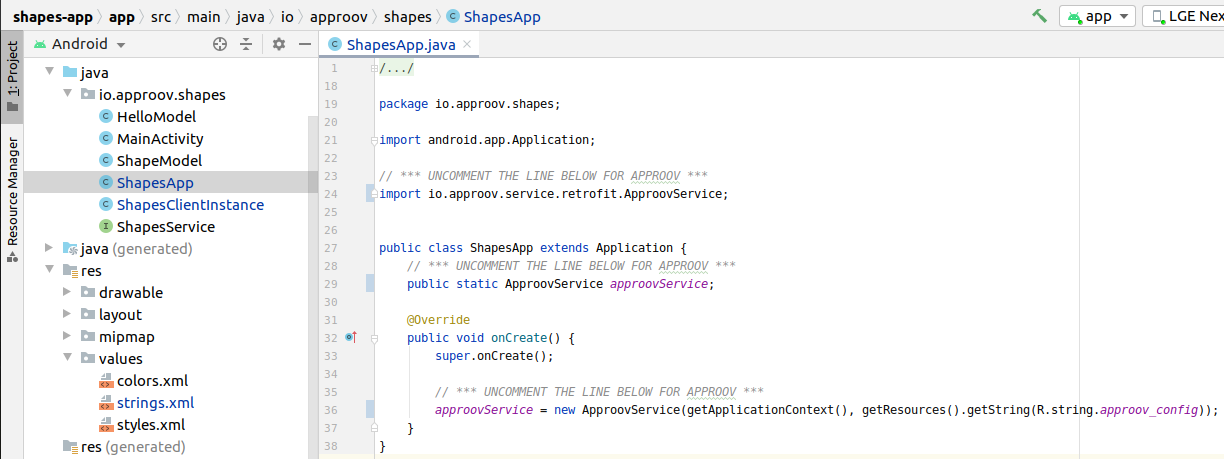
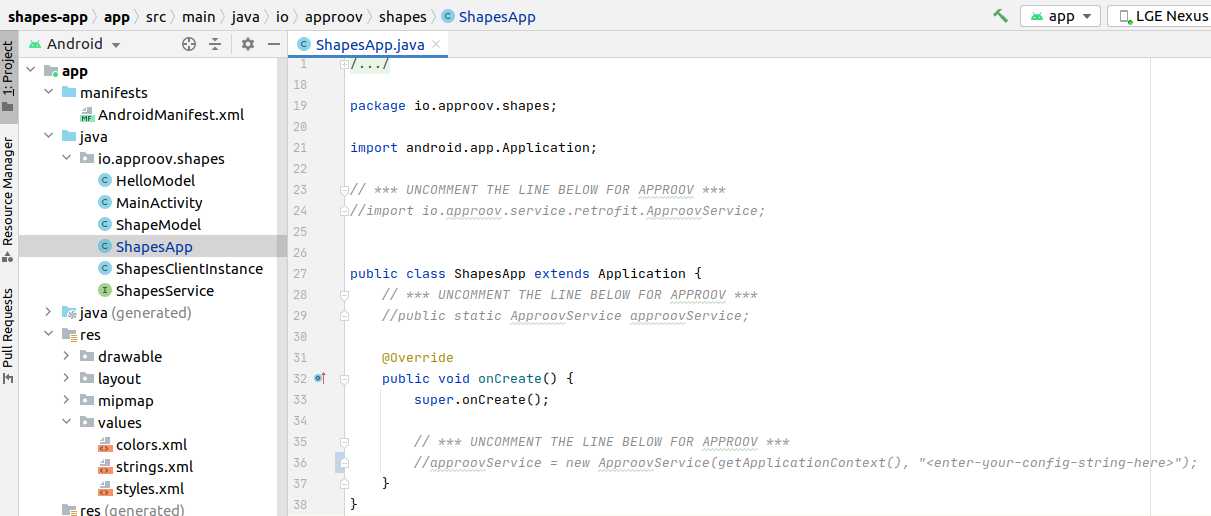
Use short init string

diff --git a/shapes-app/app/src/main/java/io/approov/shapes/ShapesApp.java b/shapes-app/app/src/main/java/io/approov/shapes/ShapesApp.java
@@ -33,6 +33,6 @@ public class ShapesApp extends Application {
         super.onCreate();
 
         // *** UNCOMMENT THE LINE BELOW FOR APPROOV ***
-        //approovService = new ApproovService(getApplicationContext(), getResources().getString(R.string.approov_config));
+        //approovService = new ApproovService(getApplicationContext(), "<enter-your-config-string-here>");
     }
 }

diff --git a/README.md b/README.md
@@ -2,6 +2,10 @@
 
 This quickstart is written specifically for native Android apps that are written in Java and use [`Retrofit`](https://square.github.io/retrofit/) for making the API calls that you wish to protect with Approov. If this is not your situation then check if there is a more relevant Quickstart guide available.
 
+This quickstart provides a step-by-step example of integrating Approov into an app using a simple `Shapes` example that shows a geometric shape based on a request to an API backend that can be protected with Approov.
+
+It is also possible to use Approov in `Discovery` mode to perform an initial assessment of your app user base and whether there are requests being made to your backend API that are not coming from your mobile apps. This mode allows a simpler initial integration. If you wish to implement this first then follow the steps [here](https://github.com/approov/approov-service-retrofit) up to and including the `Discovery Mode` section.
+
 ## WHAT YOU WILL NEED
 * Access to a trial or paid Approov account
 * The `approov` command line tool [installed](https://approov.io/docs/latest/approov-installation/) with access to your account
@@ -66,6 +70,8 @@ implementation 'com.github.approov:approov-service-retrofit:x.y.z'
 
 You can see the latest in the `README` at [`approov-service-retrofit`](https://github.com/approov/approov-service-retrofit).
 
+Make sure you do a Gradle sync (by selecting `Sync Now` in the banner at the top of the modified `.gradle` file) after making these changes.
+
 Note that `approov-service-retrofit` is actually an open source wrapper layer that allows you to easily use Approov with `Retrofit`. This has a further dependency to the closed source Approov SDK itself.
 
 ## ENSURE THE SHAPES API IS ADDED
@@ -76,18 +82,6 @@ approov api -add shapes.approov.io
 ```
 Tokens for this domain will be automatically signed with the specific secret for this domain, rather than the normal one for your account.
 
-## SETUP YOUR APPROOV CONFIGURATION
-
-The Approov SDK needs a configuration string to identify the account associated with the app. Obtain it using:
-```
-approov sdk -getConfig initial-config.txt
-```
-Copy and paste the `initial-config.txt` file content into a new created `approov_config` string resource entry as shown (the actual entry will be much longer than shown).
-
-![Initial Config String](readme-images/initial-config.png)
-
-The app reads this string to initialize the Approov SDK.
-
 ## MODIFY THE APP TO USE APPROOV
 
 Uncomment the three lines of Approov initialization code in `io/approov/shapes/ShapesApp.java`:
@@ -95,6 +89,13 @@ Uncomment the three lines of Approov initialization code in `io/approov/shapes/S
 ![Approov Initialization](readme-images/approov-init-code.png)
 
 This initializes Approov when the app is first created. It uses the configuration string we set earlier. A `public static` member allows other parts of the app to access the singleton Approov instance. All calls to `ApproovService` and the SDK itself are thread safe.
+
+The Approov SDK needs a configuration string to identify the account associated with the app. Obtain it using:
+
+```
+approov sdk -getConfigString
+```
+This will output a configuration string, something like `#123456#K/XPlLtfcwnWkzv99Wj5VmAxo4CrU267J1KlQyoz8Qo=`, that will identify your Approov account. Copy this into `io/approov/shapes/ShapesApp.java:36`, replacing the text `<enter-your-config-string-here>`.
 
 Next we need to use Approov when we create a retrofit instance to access shapes. We change the lazy constructor for the instance at `io/approov/shapes/ShapesClientInstance.java:40`:
 
